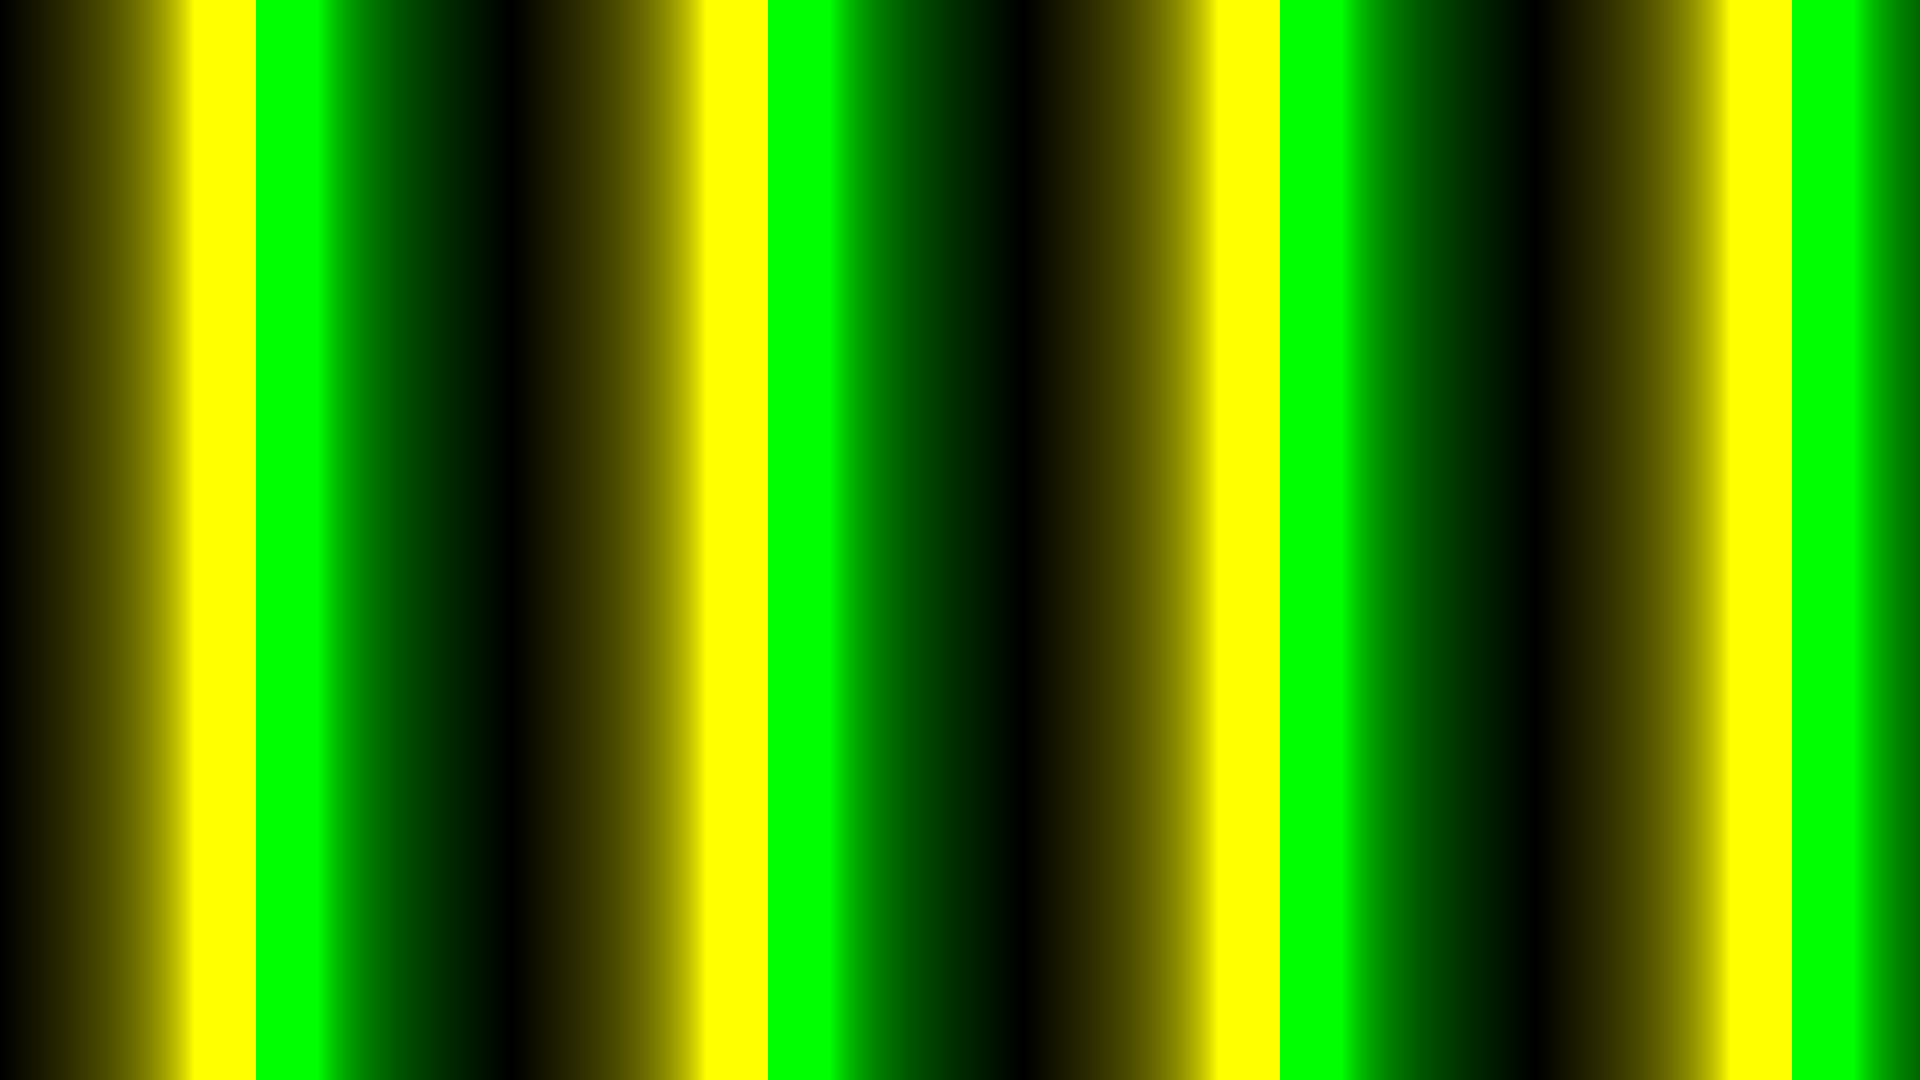
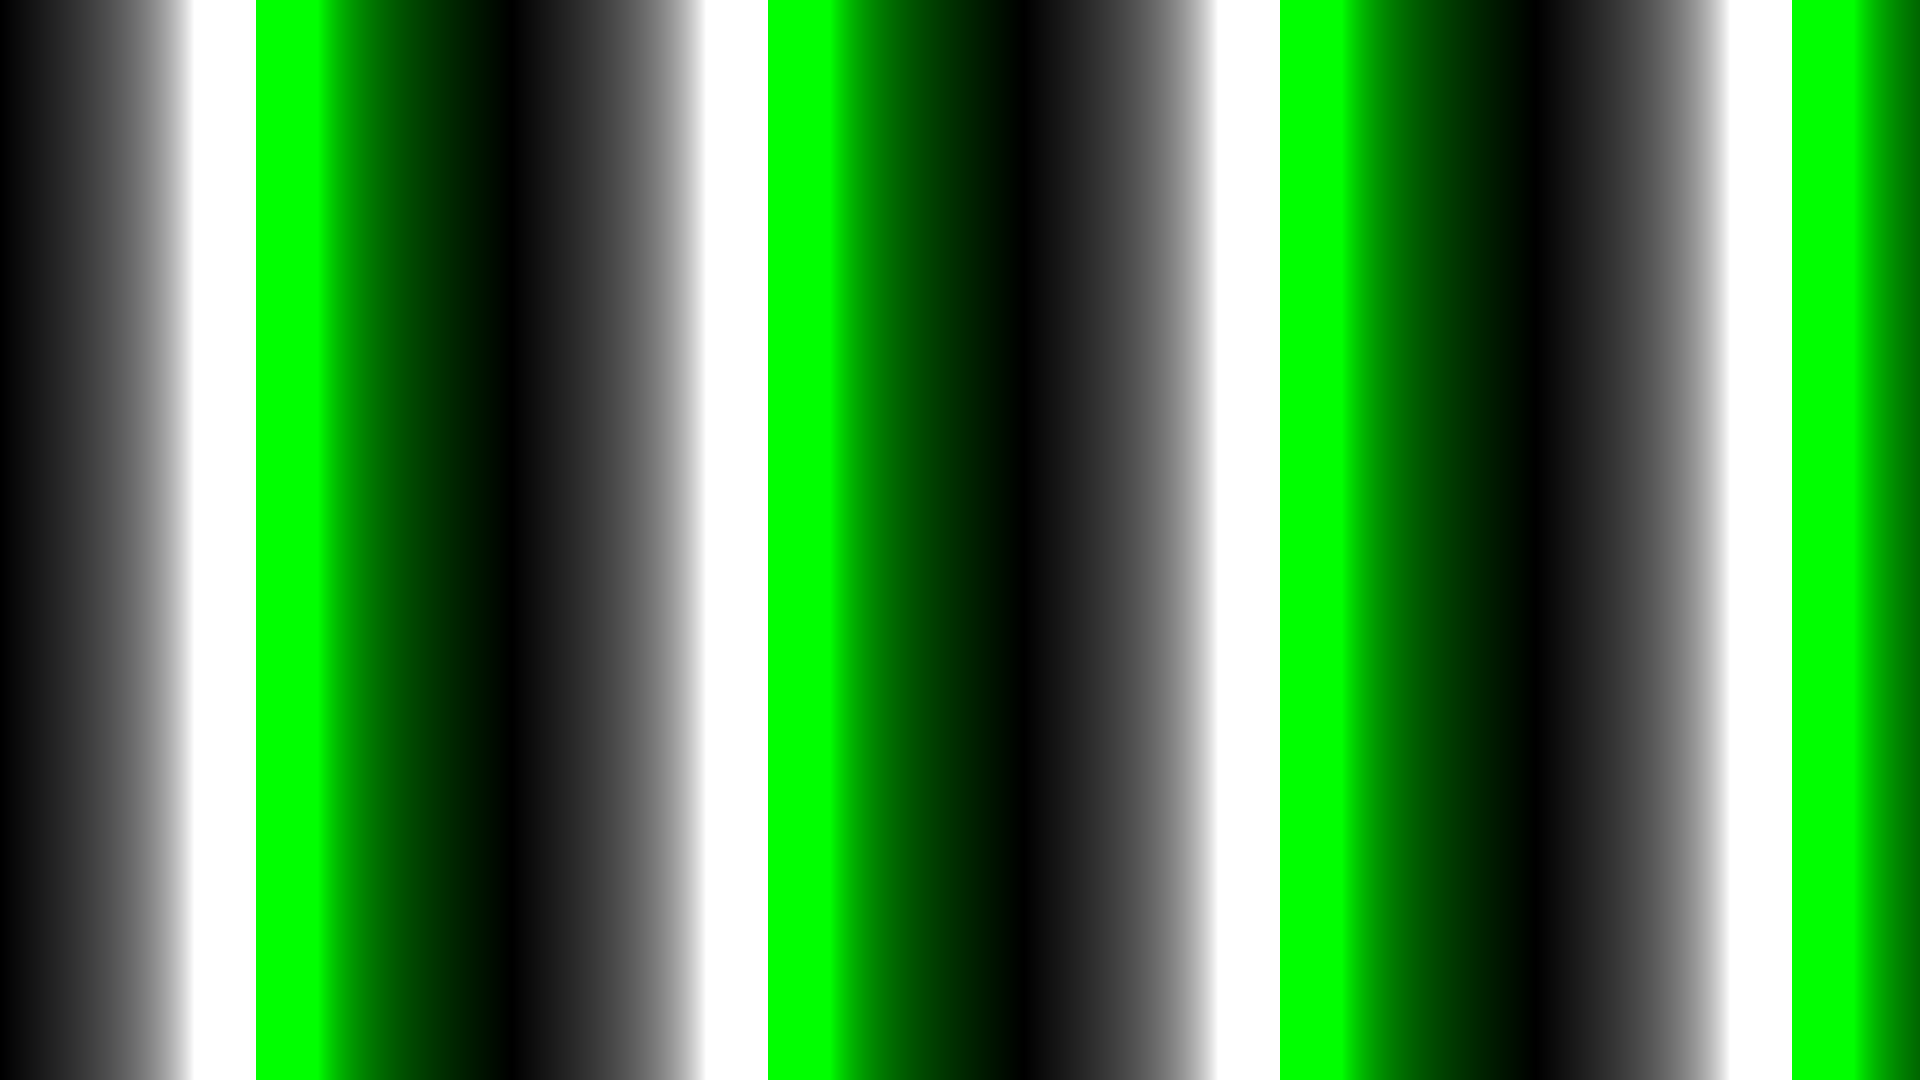
Testcase tan_1.afs now passed (equal result than Filter Factory)
git-svn-id: https://svn.viathinksoft.com/svn/filter_foundry/trunk@136 1b5a0048-3058-4200-831f-25aa9e3a14b9

diff --git a/funcs.c b/funcs.c
@@ -52,7 +52,12 @@ void init_trigtab(){
 		costab[i] = cos(FFANGLE(i));
 	}
 	for(i=0;i<TANTABSIZE;++i){
-		tantab[i] = tan(FFANGLE(i-256));
+		if (i>=256) {
+			/* the last '-1' in the expression '512-i-1' is for FilterFactory compatibility, and to avoid the undefined pi/2 area */
+			tantab[i] = -tantab[512-i-1];
+		} else {
+			tantab[i] = tan(FFANGLE(i));
+		}
 	}
 }
 
@@ -221,7 +226,7 @@ value_type ff_sin(value_type x){
    1024, inclusive (Mac OS) */
 value_type ff_cos(value_type x){
 	//return RINT(TRIGAMP*cos(FFANGLE(x)));
-	return TRIGAMP*costab[abs(x) % COSTABSIZE];
+	return RINT(TRIGAMP*costab[abs(x) % COSTABSIZE]);
 }
 
 /* tan(x) Bounded tangent function of x, where x is an integer
@@ -230,8 +235,9 @@ value_type ff_cos(value_type x){
    -1024 and 1024, inclusive (Mac OS) */
 value_type ff_tan(value_type x){
 	// TODO: Shouldn't the output be bounded to -1024..1024, or do I understand the definition wrong?
-	// return RINT(TRIGAMP*tan(FFANGLE(d)));
-	return TRIGAMP*tantab[(x+256) % TANTABSIZE];
+	if (x < 0) x--; /* required for FilterFactory compatibility */
+	while (x < 0) x += TANTABSIZE;
+	return RINT(2*TRIGAMP*tantab[x % TANTABSIZE]); /* FIXME: why do we need factor 2? */
 }
 
 /* r2x(d,m) x displacement of the pixel m units away, at an angle of d,
